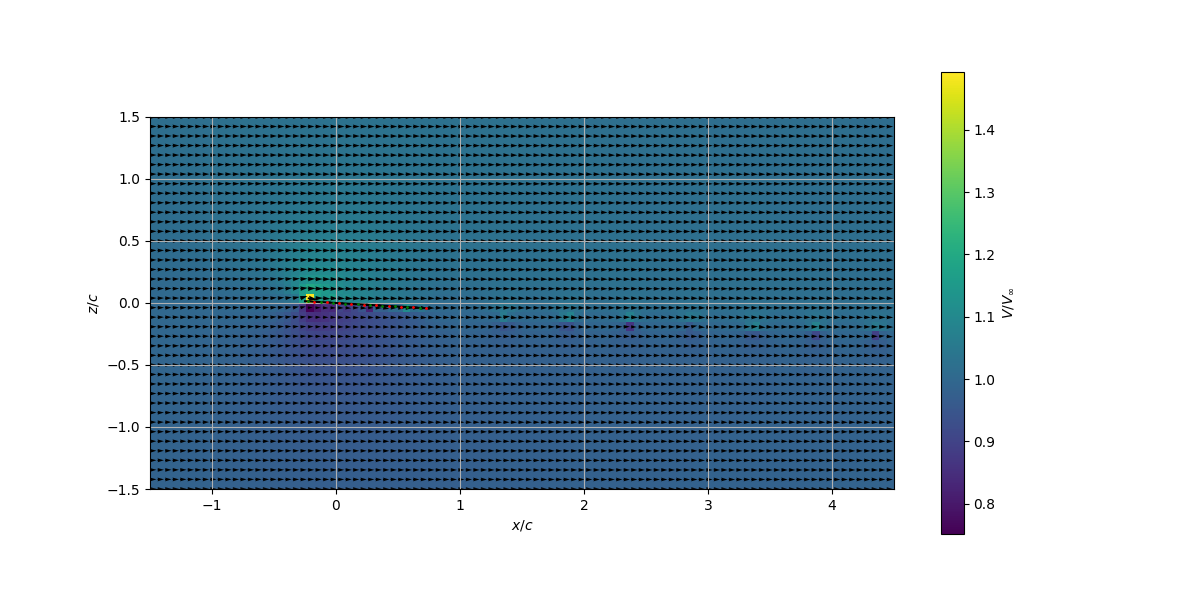
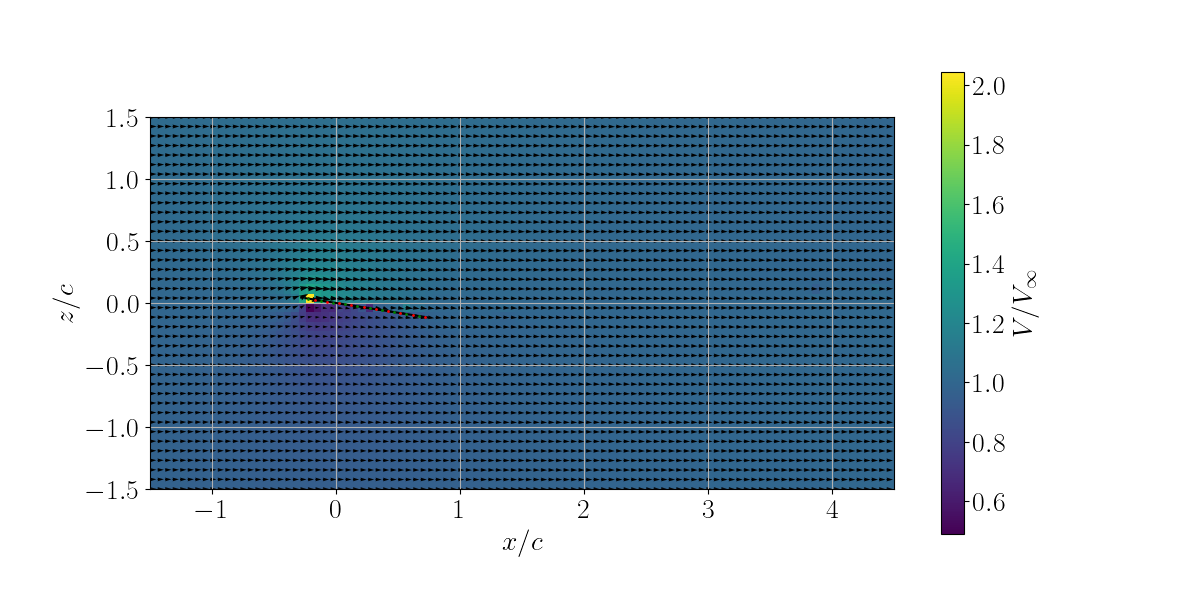
Images

diff --git a/main.py b/main.py
@@ -17,13 +17,13 @@ pitch_0 = 5                     # pitch in steady state (AoA) [degrees]
 rotation_point = 0.25 * chord   # rotation point of airfoil
 Nx = 100                        # number of elements in x-direction                     (UNSTEADY)
 Nz = 40                         # number of elements in z-direction                     (UNSTEADY)
-Nt = 40                        # number of time steps                                  (UNSTEADY)
-dt = 0.03141592653                     # time step [sec]                                       (UNSTEADY)
+Nt = 400                        # number of time steps                                  (UNSTEADY)
+dt = 0.01                       # time step [sec]                                       (UNSTEADY)
 A_pitch = 5                     # pitch amplitude (sinusoidal pitching) [degrees]       (UNSTEADY)
-kappa = 0.1                # reduced frequency                                     (UNSTEADY)
+kappa = 0.5                     # reduced frequency                                     (UNSTEADY)
 shed_vortex_factor = 0.25       # between 0.2 and 0.3                                   (UNSTEADY)
 flap_chord = 0.25               # flap length [1/c]
-beta_0 = 10                     # flap angle [degrees] 
+beta_0 = 20                     # flap angle [degrees] 
 
 U_mag = np.linalg.norm((U_inf, W_inf))
 T = dt * (Nt - 1)
@@ -35,7 +35,7 @@ print('1 - Steady Airfoil at Different Angles of Attack')
 print('2 - Pitching Airfoil at Different Reduced Frequencies')
 print('3 - Sensitivity Study with respect to Number of Elements')
 print('4 - Sensitivity Study with respect to Time Step')
-print('5 - Steady Airfoil with Flap at Different Amplitudes')
+print('5 - Steady Airfoil with Flap at Different Deflections')
 print('6 - Pitching Airfoil with Flap at Different Reduced Frequencies')
 
 choice = input('Select an option: ')
